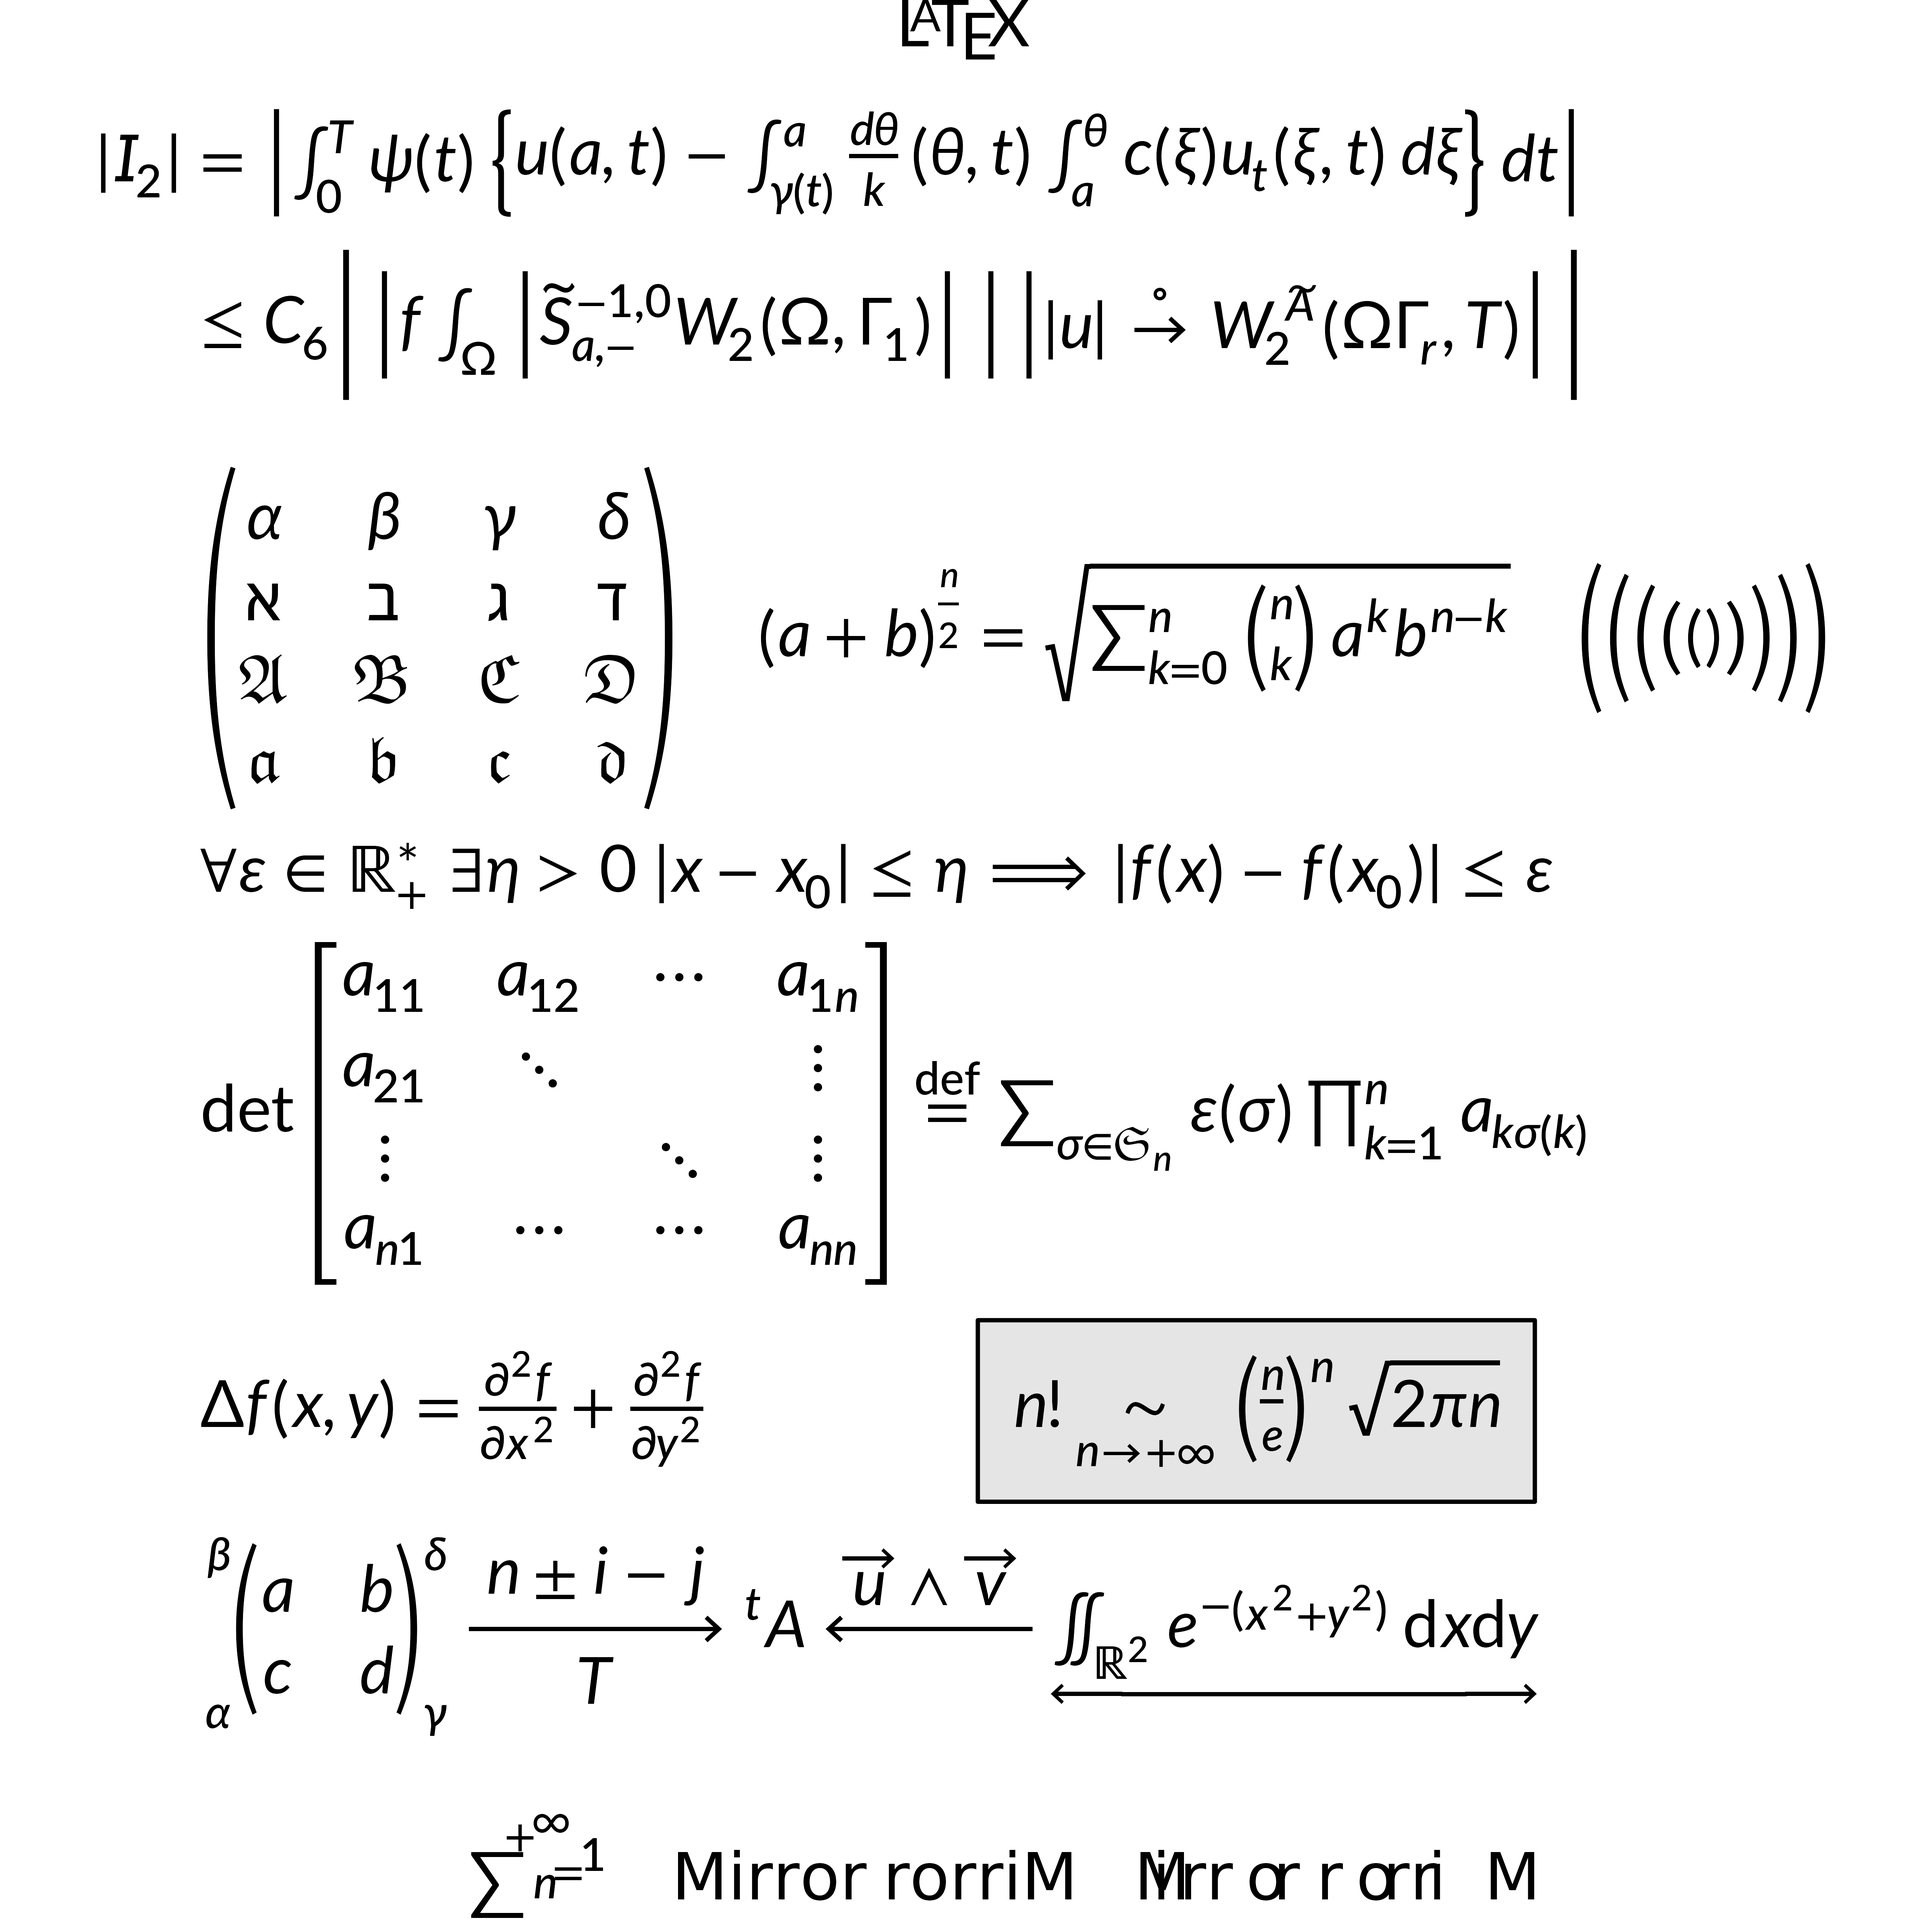
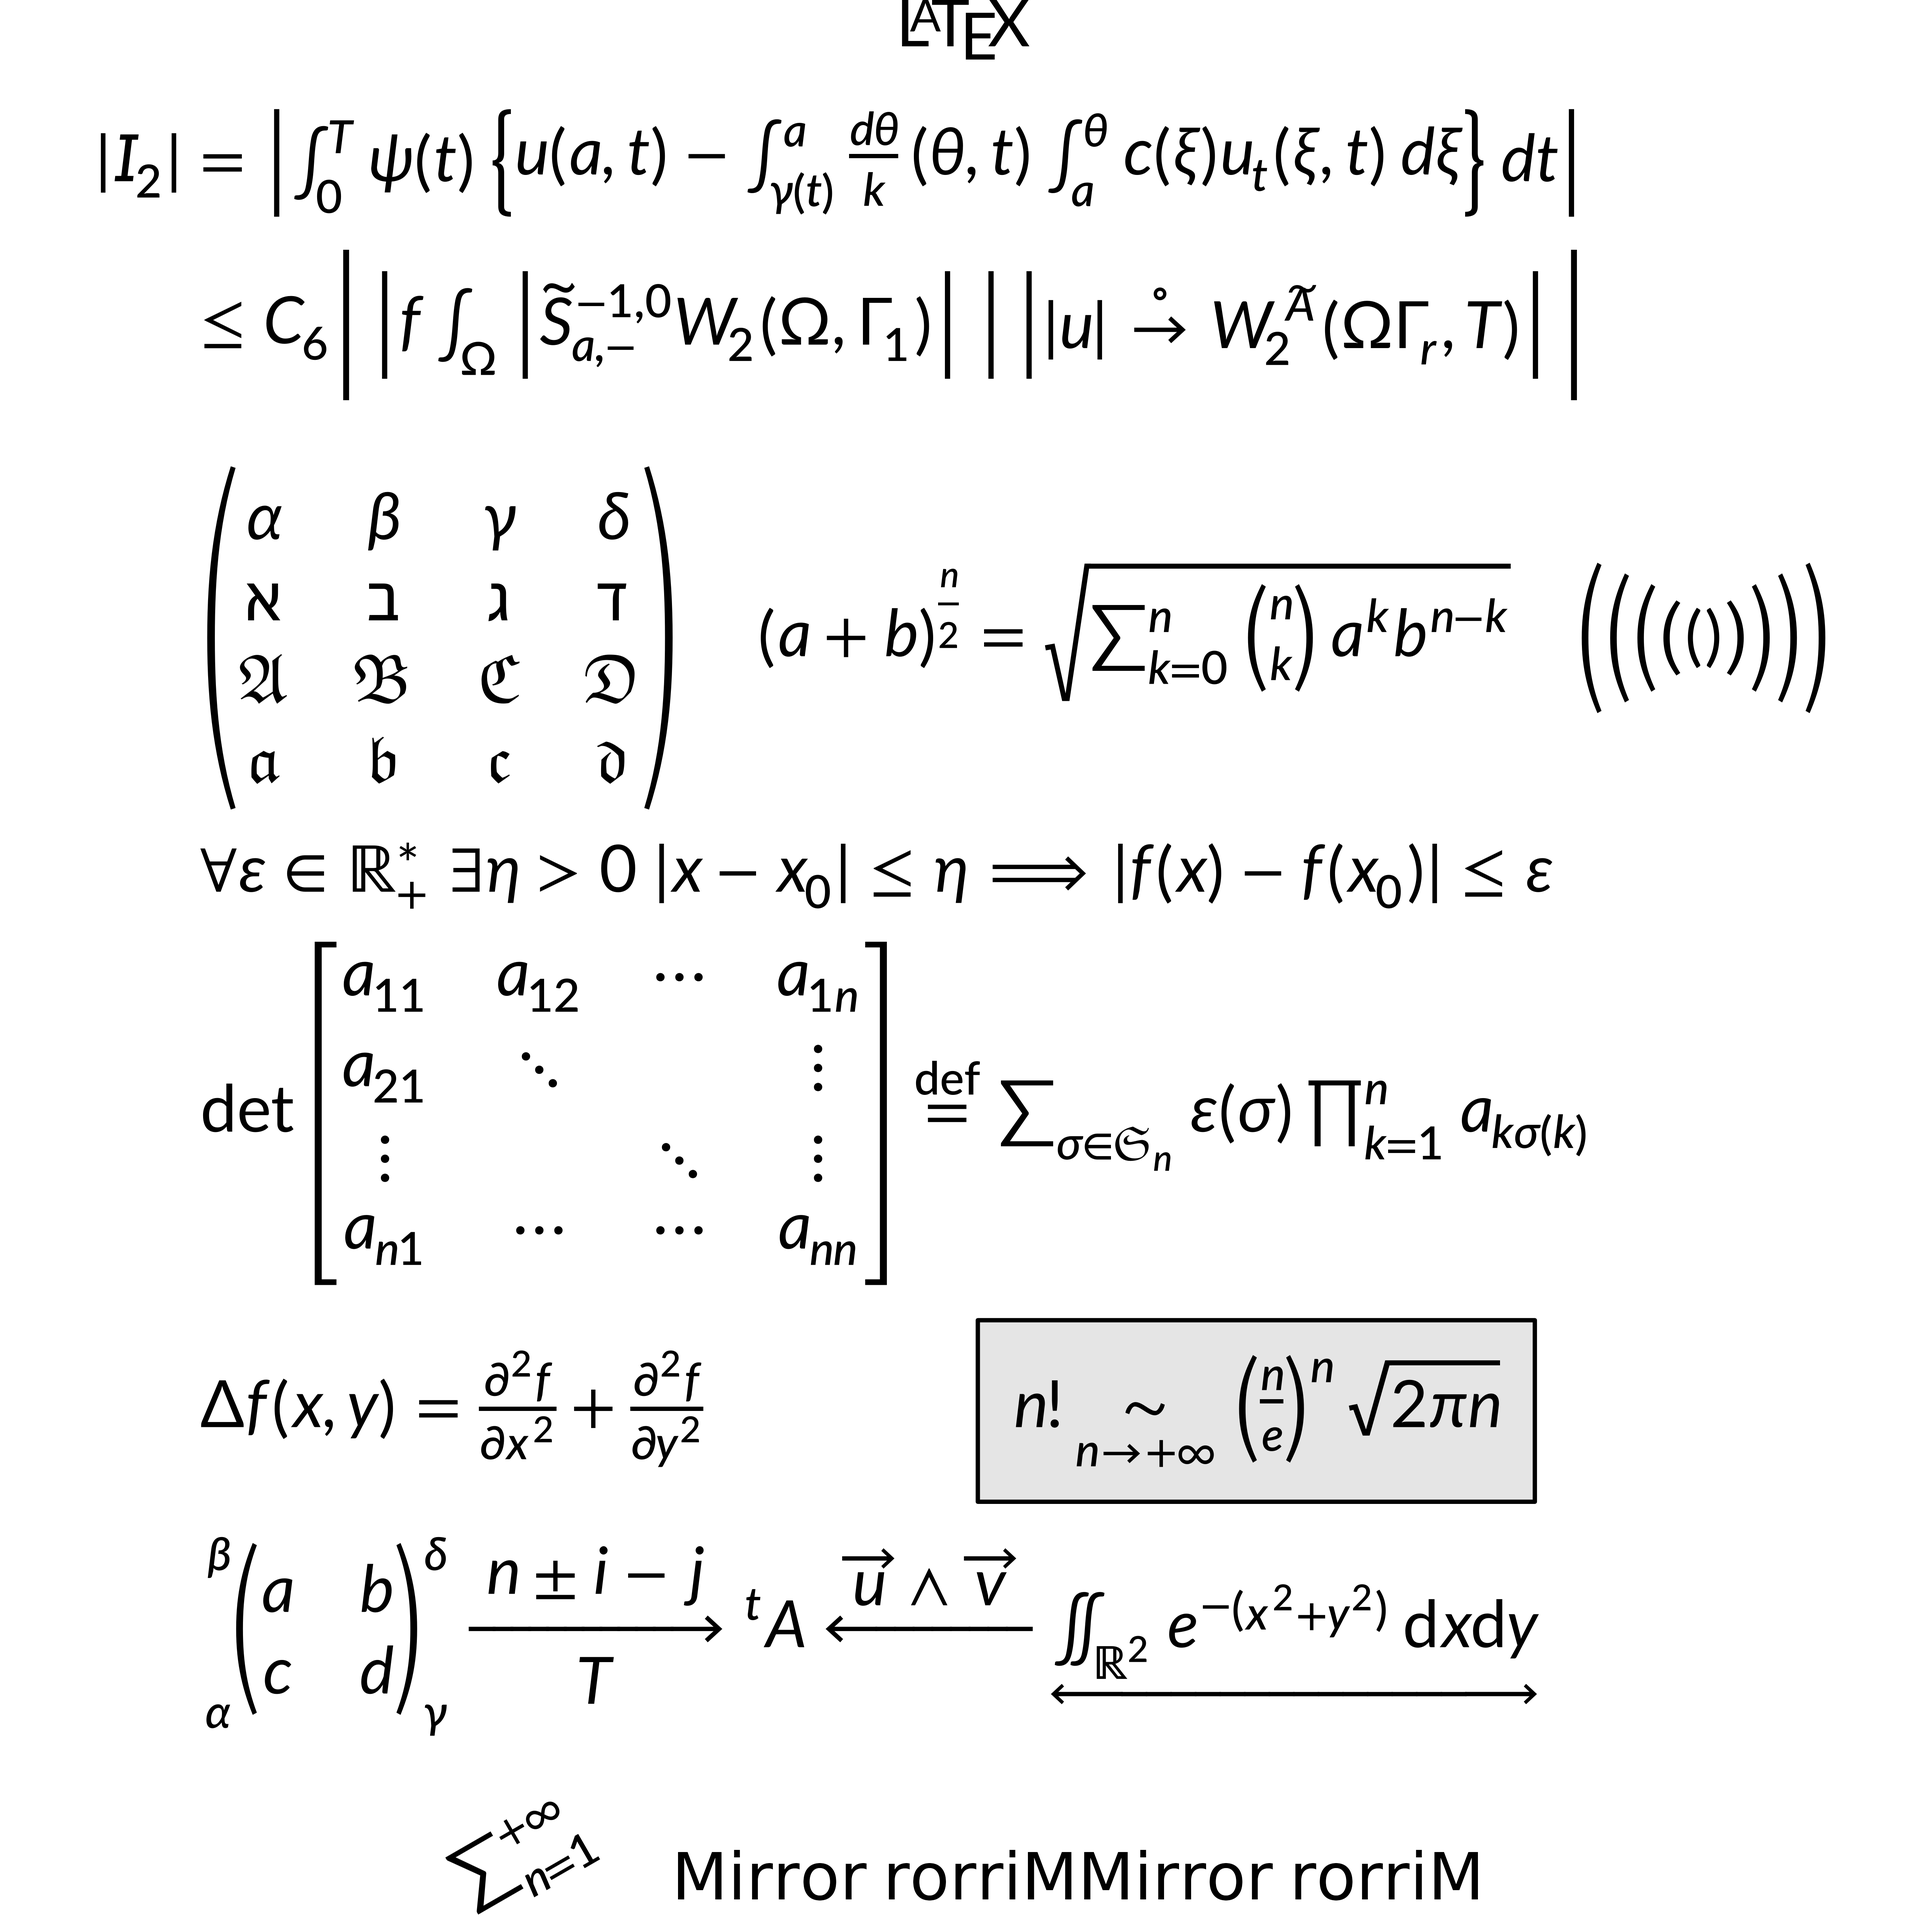
Deploying to gh-pages from @ adayim/gridmicrotex@b436499a64a9060dfbaa9bab1bb85373c0e1748d 🚀

Changed region(s): [[0.56, 0.9644, 0.7156, 0.9956], [0.2489, 0.9333, 0.3111, 1.0], [0.7467, 0.9644, 0.8089, 0.9956]]

diff --git a/articles/introduction.html b/articles/introduction.html
@@ -408,7 +408,8 @@ does not attempt to replace a full LaTeX installation.</p>
 <span><span class="st">  \\end{split}\\\\</span></span>
 <span><span class="st">  \\rotatebox{30}{\\sum_{n=1}^{+\\infty}}\\quad\\mbox{Mirror rorriM}\\reflectbox{\\mbox{Mirror rorriM}}</span></span>
 <span><span class="st">\\end{array}"</span>,</span>
-<span>  gp <span class="op">=</span> <span class="fu">grid</span><span class="fu">::</span><span class="fu"><a href="https://rdrr.io/r/grid/gpar.html" class="external-link">gpar</a></span><span class="op">(</span>fontsize <span class="op">=</span> <span class="fl">22</span><span class="op">)</span></span>
+<span>  gp <span class="op">=</span> <span class="fu">grid</span><span class="fu">::</span><span class="fu"><a href="https://rdrr.io/r/grid/gpar.html" class="external-link">gpar</a></span><span class="op">(</span>fontsize <span class="op">=</span> <span class="fl">22</span><span class="op">)</span>,</span>
+<span>  render_mode <span class="op">=</span> <span class="st">"path"</span></span>
 <span><span class="op">)</span></span></code></pre></div>
 <p><img src="introduction_files/figure-html/complicated-equation-1.png" class="r-plt" alt="" width="60%"></p>
 </div>
@@ -534,10 +535,10 @@ custom grobs on top of the layout:</p>
 <span><span class="co">#&gt; 1 glyph 0.175  7.224  2701        14 #000000    NA     NA    NA     NA NA NA</span></span>
 <span><span class="co">#&gt; 2  line 0.000 10.624    NA        NA #000000 7.392 10.624    NA     NA NA NA</span></span>
 <span><span class="co">#&gt; 3 glyph 0.000 25.824  2702        14 #000000    NA     NA    NA     NA NA NA</span></span>
-<span><span class="co">#&gt;    lwd text font_style path codepoint</span></span>
-<span><span class="co">#&gt; 1   NA &lt;NA&gt;         NA NULL        NA</span></span>
-<span><span class="co">#&gt; 2 1.32 &lt;NA&gt;         NA NULL        NA</span></span>
-<span><span class="co">#&gt; 3   NA &lt;NA&gt;         NA NULL        NA</span></span>
+<span><span class="co">#&gt;    lwd text font_style rotation path codepoint</span></span>
+<span><span class="co">#&gt; 1   NA &lt;NA&gt;         NA        0 NULL        NA</span></span>
+<span><span class="co">#&gt; 2 1.32 &lt;NA&gt;         NA        0 NULL        NA</span></span>
+<span><span class="co">#&gt; 3   NA &lt;NA&gt;         NA        0 NULL        NA</span></span>
 <span><span class="co">#&gt;                                                             font_file</span></span>
 <span><span class="co">#&gt; 1 /home/runner/work/_temp/Library/gridmicrotex/fonts/LeteSansMath.otf</span></span>
 <span><span class="co">#&gt; 2                                                                &lt;NA&gt;</span></span>

diff --git a/reference/latex_tree.html b/reference/latex_tree.html
@@ -149,10 +149,10 @@ glyph, path, line, rect, or text block). Columns include
 <span class="r-out co"><span class="r-pr">#&gt;</span> 1 glyph 0.175  7.224  2701        14 #000000    NA     NA    NA     NA NA NA</span>
 <span class="r-out co"><span class="r-pr">#&gt;</span> 2  line 0.000 10.624    NA        NA #000000 7.392 10.624    NA     NA NA NA</span>
 <span class="r-out co"><span class="r-pr">#&gt;</span> 3 glyph 0.000 25.824  2702        14 #000000    NA     NA    NA     NA NA NA</span>
-<span class="r-out co"><span class="r-pr">#&gt;</span>    lwd text font_style path codepoint</span>
-<span class="r-out co"><span class="r-pr">#&gt;</span> 1   NA &lt;NA&gt;         NA NULL        NA</span>
-<span class="r-out co"><span class="r-pr">#&gt;</span> 2 1.32 &lt;NA&gt;         NA NULL        NA</span>
-<span class="r-out co"><span class="r-pr">#&gt;</span> 3   NA &lt;NA&gt;         NA NULL        NA</span>
+<span class="r-out co"><span class="r-pr">#&gt;</span>    lwd text font_style rotation path codepoint</span>
+<span class="r-out co"><span class="r-pr">#&gt;</span> 1   NA &lt;NA&gt;         NA        0 NULL        NA</span>
+<span class="r-out co"><span class="r-pr">#&gt;</span> 2 1.32 &lt;NA&gt;         NA        0 NULL        NA</span>
+<span class="r-out co"><span class="r-pr">#&gt;</span> 3   NA &lt;NA&gt;         NA        0 NULL        NA</span>
 <span class="r-out co"><span class="r-pr">#&gt;</span>                                                             font_file</span>
 <span class="r-out co"><span class="r-pr">#&gt;</span> 1 /home/runner/work/_temp/Library/gridmicrotex/fonts/LeteSansMath.otf</span>
 <span class="r-out co"><span class="r-pr">#&gt;</span> 2                                                                &lt;NA&gt;</span>

diff --git a/articles/introduction.md b/articles/introduction.md
@@ -364,7 +364,8 @@ grid.latex(
   \\end{split}\\\\
   \\rotatebox{30}{\\sum_{n=1}^{+\\infty}}\\quad\\mbox{Mirror rorriM}\\reflectbox{\\mbox{Mirror rorriM}}
 \\end{array}",
-  gp = grid::gpar(fontsize = 22)
+  gp = grid::gpar(fontsize = 22),
+  render_mode = "path"
 )
 ```
 
@@ -488,10 +489,10 @@ head(tr$records, 3)
 #> 1 glyph 0.175  7.224  2701        14 #000000    NA     NA    NA     NA NA NA
 #> 2  line 0.000 10.624    NA        NA #000000 7.392 10.624    NA     NA NA NA
 #> 3 glyph 0.000 25.824  2702        14 #000000    NA     NA    NA     NA NA NA
-#>    lwd text font_style path codepoint
-#> 1   NA <NA>         NA NULL        NA
-#> 2 1.32 <NA>         NA NULL        NA
-#> 3   NA <NA>         NA NULL        NA
+#>    lwd text font_style rotation path codepoint
+#> 1   NA <NA>         NA        0 NULL        NA
+#> 2 1.32 <NA>         NA        0 NULL        NA
+#> 3   NA <NA>         NA        0 NULL        NA
 #>                                                             font_file
 #> 1 /home/runner/work/_temp/Library/gridmicrotex/fonts/LeteSansMath.otf
 #> 2                                                                <NA>

diff --git a/reference/latex_tree.md b/reference/latex_tree.md
@@ -111,10 +111,10 @@ A list with class `"latex_tree"` containing:
 #> 1 glyph 0.175  7.224  2701        14 #000000    NA     NA    NA     NA NA NA
 #> 2  line 0.000 10.624    NA        NA #000000 7.392 10.624    NA     NA NA NA
 #> 3 glyph 0.000 25.824  2702        14 #000000    NA     NA    NA     NA NA NA
-#>    lwd text font_style path codepoint
-#> 1   NA <NA>         NA NULL        NA
-#> 2 1.32 <NA>         NA NULL        NA
-#> 3   NA <NA>         NA NULL        NA
+#>    lwd text font_style rotation path codepoint
+#> 1   NA <NA>         NA        0 NULL        NA
+#> 2 1.32 <NA>         NA        0 NULL        NA
+#> 3   NA <NA>         NA        0 NULL        NA
 #>                                                             font_file
 #> 1 /home/runner/work/_temp/Library/gridmicrotex/fonts/LeteSansMath.otf
 #> 2                                                                <NA>
